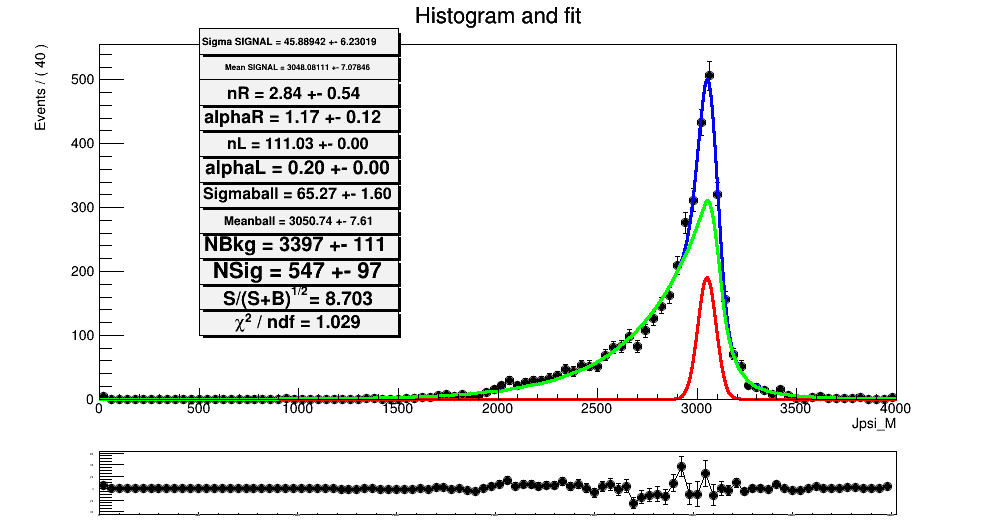
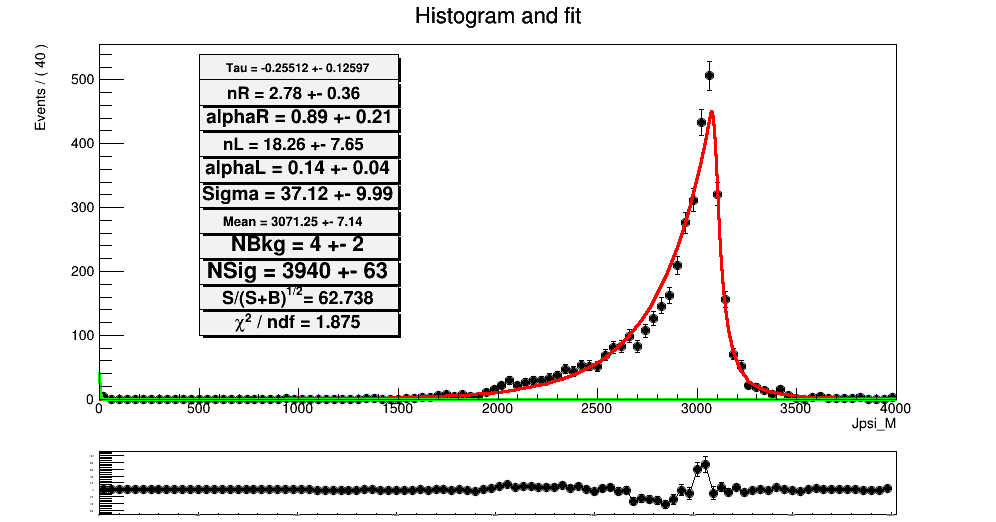
Add files via upload

diff --git a/FITTING/FIT_for_data_with_restrictions.py b/FITTING/FIT_for_data_with_restrictions.py
@@ -78,27 +78,29 @@ def ballFitdatarest(tree, cuts, mean_val, xmin = 4000, xmax = 7000):   # NOW TRE
     # define variables and pdfs
     Jpsi_M = RooRealVar("Jpsi_M","Jpsi_M", xmin, xmax)
     
-    mean  = RooRealVar("mean", "mean",  mean_val, mean_val-200, mean_val+200)
-    sigma = RooRealVar("sigma", "sigma", 80, 10, 150)
-    gauss = RooGaussian("gauss", "gauss", Jpsi_M, mean, sigma)
+    #mean  = RooRealVar("mean", "mean",  mean_val, mean_val-200, mean_val+200)
+    #sigma = RooRealVar("sigma", "sigma", 80, 10, 150)
+    #gauss = RooGaussian("gauss", "gauss", Jpsi_M, mean, sigma)
     
-    #tau = RooRealVar("tau", "tau", -0.005, -0.01, 0.)
-    #exp = RooExponential("exp", "exp", Jpsi_M, tau)
+    mean_ball=mean_val
 
-    mean_ball=2800
-    # I SET THE VALUES AND MAKE THEM CONSTANT
-    meanball  = RooRealVar("meanball","meanball",mean_ball,mean_ball-700,mean_ball+300)
-    sigmaball = RooRealVar("sigmaball", "sigmaball", 400, 200, 800)
-    alphaL    = RooRealVar("alphaL", "alphaL", 0.20, 0.1, 10.)
-    nL        = RooRealVar("nL", "nL", 111.03, 20, 150)
-    alphaR    = RooRealVar("alphaR", "alphaR", 1.17, 0.1, 10.)
-    nR        = RooRealVar("nR", "nR", 2.84, 0.01, 3)
+    meanball  = RooRealVar("meanball","meanball",mean_ball,mean_ball-300,mean_ball+300)
+    sigmaball = RooRealVar("sigmaball", "sigmaball", 80, 10, 100)
+    alphaL    = RooRealVar("alphaL", "alphaL", 0.14, 0.1, 10.)
+    nL        = RooRealVar("nL", "nL", 18.26, 5, 60)
+    alphaR    = RooRealVar("alphaR", "alphaR", 0.89, 0.1, 10.)
+    nR        = RooRealVar("nR", "nR", 2.78, 0.1, 25)
     ball=RooCrystalBall("ball","ball",Jpsi_M,meanball,sigmaball,alphaL,nL,alphaR,nR)
+    
+    
+    tau = RooRealVar("tau", "tau", -0.25512, -1, 0.)
+    exp = RooExponential("exp", "exp", Jpsi_M, tau)
     
     alphaL.setConstant(True)
     alphaR.setConstant(True)
     nL.setConstant(True)
     nR.setConstant(True)
+    tau.setConstant(True)
 
 
     # define coefficiencts
@@ -109,8 +111,8 @@ def ballFitdatarest(tree, cuts, mean_val, xmin = 4000, xmax = 7000):   # NOW TRE
     suma = RooArgList()
     coeff = RooArgList()
     
-    suma.add(gauss)
     suma.add(ball)
+    suma.add(exp)
     
     coeff.add(nsig)
     coeff.add(nbkg)
@@ -162,9 +164,9 @@ def ballFitdatarest(tree, cuts, mean_val, xmin = 4000, xmax = 7000):   # NOW TRE
 
     ###################
 
-    model.plotOn(massFrame, RooFit.Components("gauss"), RooFit.LineColor(2),
+    model.plotOn(massFrame, RooFit.Components("ball"), RooFit.LineColor(2),
                  RooFit.VisualizeError(fitResults, 1))
-    model.plotOn(massFrame, RooFit.Components("ball")  , RooFit.LineColor(3),
+    model.plotOn(massFrame, RooFit.Components("exp")  , RooFit.LineColor(3),
                  RooFit.VisualizeError(fitResults, 1))
     #model.paramOn(massFrame, Layout=(.55,.95,.93), Parameters=RooArgSet(nsig, nbkg, mean, sigma, tau))
 
@@ -195,14 +197,14 @@ def ballFitdatarest(tree, cuts, mean_val, xmin = 4000, xmax = 7000):   # NOW TRE
     t2 = ROOT.TPaveLabel(500.,40.,1500.,45., 'S/(S+B)^{1/2}' + '= {:.3f}'.format(signif.nominal_value))
     t3 = ROOT.TPaveLabel(500.,45.,1500.,50., 'NSig = {:.0f} +- {:.0f}'.format(nsig.getValV(), nsig.getError()))
     t4 = ROOT.TPaveLabel(500.,50.,1500.,55., 'NBkg = {:.0f} +- {:.0f}'.format(nbkg.getValV(), nbkg.getError()))
-    t5 = ROOT.TPaveLabel(500.,55.,1500.,60., 'Meanball = {:.2f} +- {:.2f}'.format(meanball.getValV(), meanball.getError()))
-    t6 = ROOT.TPaveLabel(500.,60.,1500.,65., 'Sigmaball = {:.2f} +- {:.2f}'.format(sigmaball.getValV(), sigmaball.getError()))
+    t5 = ROOT.TPaveLabel(500.,55.,1500.,60., 'Mean = {:.2f} +- {:.2f}'.format(meanball.getValV(), meanball.getError()))
+    t6 = ROOT.TPaveLabel(500.,60.,1500.,65., 'Sigma = {:.2f} +- {:.2f}'.format(sigmaball.getValV(), sigmaball.getError()))
     t8 = ROOT.TPaveLabel(500.,65.,1500.,70., 'alphaL = {:.2f} +- {:.2f}'.format(alphaL.getValV(), alphaL.getError()))
     t9 = ROOT.TPaveLabel(500.,70.,1500.,75., 'nL = {:.2f} +- {:.2f}'.format(nL.getValV(), nL.getError()))
     t10 = ROOT.TPaveLabel(500.,75.,1500.,80., 'alphaR = {:.2f} +- {:.2f}'.format(alphaR.getValV(), alphaR.getError()))
     t11 = ROOT.TPaveLabel(500.,80.,1500.,85., 'nR = {:.2f} +- {:.2f}'.format(nR.getValV(), nR.getError()))
-    t7 = ROOT.TPaveLabel(500.,85.,1500.,90., 'Mean SIGNAL = {:.5f} +- {:.5f}'.format(mean.getValV(), mean.getError()))
-    t12 = ROOT.TPaveLabel(500.,90.,1500.,95., 'Sigma SIGNAL = {:.5f} +- {:.5f}'.format(sigma.getValV(), sigma.getError()))
+    t7 = ROOT.TPaveLabel(500.,85.,1500.,90., 'Tau = {:.5f} +- {:.5f}'.format(tau.getValV(), tau.getError()))
+    #t12 = ROOT.TPaveLabel(500.,90.,1500.,95., 'Sigma SIGNAL = {:.5f} +- {:.5f}'.format(sigma.getValV(), sigma.getError()))
     
     massFrame.addObject(t2)
     massFrame.addObject(t3)
@@ -214,7 +216,7 @@ def ballFitdatarest(tree, cuts, mean_val, xmin = 4000, xmax = 7000):   # NOW TRE
     massFrame.addObject(t9)
     massFrame.addObject(t10)
     massFrame.addObject(t11)
-    massFrame.addObject(t12)
+    #massFrame.addObject(t12)
 
     massFrame.Draw()
     #Save the result

diff --git a/FITTING/FIT_for_data.py b/FITTING/FIT_for_data.py
@@ -78,23 +78,26 @@ def ballFitdata(tree, cuts, mean_val, xmin = 4000, xmax = 7000):   # NOW TREE IS
     # define variables and pdfs
     Jpsi_M = RooRealVar("Jpsi_M","Jpsi_M", xmin, xmax)
     
-    mean  = RooRealVar("mean", "mean",  mean_val, mean_val-200, mean_val+200)
-    sigma = RooRealVar("sigma", "sigma", 80, 10, 150)
-    gauss = RooGaussian("gauss", "gauss", Jpsi_M, mean, sigma)
+    #mean  = RooRealVar("mean", "mean",  mean_val, mean_val-200, mean_val+200)
+    #sigma = RooRealVar("sigma", "sigma", 80, 10, 150)
+    #gauss = RooGaussian("gauss", "gauss", Jpsi_M, mean, sigma)
     
-    #tau = RooRealVar("tau", "tau", -0.005, -0.01, 0.)
-    #exp = RooExponential("exp", "exp", Jpsi_M, tau)
+    
 
-    mean_ball=3100
+    mean_ball=mean_val
 
-    meanball  = RooRealVar("meanball","meanball",mean_ball,mean_ball-700,mean_ball+700)
-    sigmaball = RooRealVar("sigmaball", "sigmaball", 100, 50, 600)
+    meanball  = RooRealVar("meanball","meanball",mean_ball,mean_ball-300,mean_ball+300)
+    sigmaball = RooRealVar("sigmaball", "sigmaball", 80, 10, 100)
     alphaL    = RooRealVar("alphaL", "alphaL", 0.5, 0.1, 10.)
-    nL        = RooRealVar("nL", "nL", 10, 0.1, 30)
+    nL        = RooRealVar("nL", "nL", 20, 1, 40)
     alphaR    = RooRealVar("alphaR", "alphaR", 3, 0.1, 10.)
-    nR        = RooRealVar("nR", "nR", 0.1, 0.01, 1)
+    nR        = RooRealVar("nR", "nR", 10, 0.1, 25)
     ball=RooCrystalBall("ball","ball",Jpsi_M,meanball,sigmaball,alphaL,nL,alphaR,nR)
     
+    
+    tau = RooRealVar("tau", "tau", -0.1, -1, 0.)
+    exp = RooExponential("exp", "exp", Jpsi_M, tau)
+
     # define coefficiencts
     nsig = RooRealVar("nsig", "nsig", 1000, 0, 20000)
     nbkg = RooRealVar("nbkg", "nbkg", 1000, 0, 20000)
@@ -103,8 +106,8 @@ def ballFitdata(tree, cuts, mean_val, xmin = 4000, xmax = 7000):   # NOW TREE IS
     suma = RooArgList()
     coeff = RooArgList()
     
-    suma.add(gauss)
     suma.add(ball)
+    suma.add(exp)
     
     coeff.add(nsig)
     coeff.add(nbkg)
@@ -156,9 +159,9 @@ def ballFitdata(tree, cuts, mean_val, xmin = 4000, xmax = 7000):   # NOW TREE IS
 
     ###################
 
-    model.plotOn(massFrame, RooFit.Components("gauss"), RooFit.LineColor(2),
+    model.plotOn(massFrame, RooFit.Components("ball"), RooFit.LineColor(2),
                  RooFit.VisualizeError(fitResults, 1))
-    model.plotOn(massFrame, RooFit.Components("ball")  , RooFit.LineColor(3),
+    model.plotOn(massFrame, RooFit.Components("exp")  , RooFit.LineColor(3),
                  RooFit.VisualizeError(fitResults, 1))
     #model.paramOn(massFrame, Layout=(.55,.95,.93), Parameters=RooArgSet(nsig, nbkg, mean, sigma, tau))
 
@@ -189,14 +192,14 @@ def ballFitdata(tree, cuts, mean_val, xmin = 4000, xmax = 7000):   # NOW TREE IS
     t2 = ROOT.TPaveLabel(500.,40.,1500.,45., 'S/(S+B)^{1/2}' + '= {:.3f}'.format(signif.nominal_value))
     t3 = ROOT.TPaveLabel(500.,45.,1500.,50., 'NSig = {:.0f} +- {:.0f}'.format(nsig.getValV(), nsig.getError()))
     t4 = ROOT.TPaveLabel(500.,50.,1500.,55., 'NBkg = {:.0f} +- {:.0f}'.format(nbkg.getValV(), nbkg.getError()))
-    t5 = ROOT.TPaveLabel(500.,55.,1500.,60., 'Meanball = {:.2f} +- {:.2f}'.format(meanball.getValV(), meanball.getError()))
-    t6 = ROOT.TPaveLabel(500.,60.,1500.,65., 'Sigmaball = {:.2f} +- {:.2f}'.format(sigmaball.getValV(), sigmaball.getError()))
+    t5 = ROOT.TPaveLabel(500.,55.,1500.,60., 'Mean = {:.2f} +- {:.2f}'.format(meanball.getValV(), meanball.getError()))
+    t6 = ROOT.TPaveLabel(500.,60.,1500.,65., 'Sigma = {:.2f} +- {:.2f}'.format(sigmaball.getValV(), sigmaball.getError()))
     t8 = ROOT.TPaveLabel(500.,65.,1500.,70., 'alphaL = {:.2f} +- {:.2f}'.format(alphaL.getValV(), alphaL.getError()))
     t9 = ROOT.TPaveLabel(500.,70.,1500.,75., 'nL = {:.2f} +- {:.2f}'.format(nL.getValV(), nL.getError()))
     t10 = ROOT.TPaveLabel(500.,75.,1500.,80., 'alphaR = {:.2f} +- {:.2f}'.format(alphaR.getValV(), alphaR.getError()))
     t11 = ROOT.TPaveLabel(500.,80.,1500.,85., 'nR = {:.2f} +- {:.2f}'.format(nR.getValV(), nR.getError()))
-    t7 = ROOT.TPaveLabel(500.,85.,1500.,90., 'Mean SIGNAL = {:.5f} +- {:.5f}'.format(mean.getValV(), mean.getError()))
-    t12 = ROOT.TPaveLabel(500.,90.,1500.,95., 'Sigma SIGNAL = {:.5f} +- {:.5f}'.format(sigma.getValV(), sigma.getError()))
+    t7 = ROOT.TPaveLabel(500.,85.,1500.,90., 'Tau = {:.5f} +- {:.5f}'.format(tau.getValV(), tau.getError()))
+    #t12 = ROOT.TPaveLabel(500.,90.,1500.,95., 'Sigma SIGNAL = {:.5f} +- {:.5f}'.format(sigma.getValV(), sigma.getError()))
     
     massFrame.addObject(t2)
     massFrame.addObject(t3)
@@ -208,7 +211,7 @@ def ballFitdata(tree, cuts, mean_val, xmin = 4000, xmax = 7000):   # NOW TREE IS
     massFrame.addObject(t9)
     massFrame.addObject(t10)
     massFrame.addObject(t11)
-    massFrame.addObject(t12)
+    #massFrame.addObject(t12)
 
     massFrame.Draw()
     #Save the result

diff --git a/FITTING/FIT.py b/FITTING/FIT.py
@@ -78,22 +78,24 @@ def ballFit(tree, cuts, mean_val, xmin = 4000, xmax = 7000):
     # define variables and pdfs
     Jpsi_M = RooRealVar("Jpsi_M","Jpsi_M", xmin, xmax)
     
-    mean  = RooRealVar("mean", "mean",  mean_val, mean_val-200, mean_val+200)
-    sigma = RooRealVar("sigma", "sigma", 80, 10, 150)
-    gauss = RooGaussian("gauss", "gauss", Jpsi_M, mean, sigma)
+    #mean  = RooRealVar("mean", "mean",  mean_val, mean_val-200, mean_val+200)
+    #sigma = RooRealVar("sigma", "sigma", 80, 10, 150)
+    #gauss = RooGaussian("gauss", "gauss", Jpsi_M, mean, sigma)
     
-    #tau = RooRealVar("tau", "tau", -0.005, -0.01, 0.)
-    #exp = RooExponential("exp", "exp", Jpsi_M, tau)
 
-    mean_ball=3100
+    mean_ball=mean_val
 
     meanball  = RooRealVar("meanball","meanball",mean_ball,mean_ball-300,mean_ball+300)
-    sigmaball = RooRealVar("sigmaball", "sigmaball", 100, 50, 400)
+    sigmaball = RooRealVar("sigmaball", "sigmaball", 80, 10, 100)
     alphaL    = RooRealVar("alphaL", "alphaL", 0.5, 0.1, 10.)
-    nL        = RooRealVar("nL", "nL", 60, 20, 150)
+    nL        = RooRealVar("nL", "nL", 40, 5, 60)
     alphaR    = RooRealVar("alphaR", "alphaR", 3, 0.1, 10.)
     nR        = RooRealVar("nR", "nR", 10, 0.1, 25)
     ball=RooCrystalBall("ball","ball",Jpsi_M,meanball,sigmaball,alphaL,nL,alphaR,nR)
+    
+    
+    tau = RooRealVar("tau", "tau", -0.1, -1, 0.)
+    exp = RooExponential("exp", "exp", Jpsi_M, tau)
     
     # define coefficiencts
     nsig = RooRealVar("nsig", "nsig", 1000, 0, 20000)
@@ -103,8 +105,8 @@ def ballFit(tree, cuts, mean_val, xmin = 4000, xmax = 7000):
     suma = RooArgList()
     coeff = RooArgList()
     
-    suma.add(gauss)
     suma.add(ball)
+    suma.add(exp)
     
     coeff.add(nsig)
     coeff.add(nbkg)
@@ -145,9 +147,9 @@ def ballFit(tree, cuts, mean_val, xmin = 4000, xmax = 7000):
 
     ###################
 
-    model.plotOn(massFrame, RooFit.Components("gauss"), RooFit.LineColor(2),
+    model.plotOn(massFrame, RooFit.Components("ball"), RooFit.LineColor(2),
                  RooFit.VisualizeError(fitResults, 1))
-    model.plotOn(massFrame, RooFit.Components("ball")  , RooFit.LineColor(3),
+    model.plotOn(massFrame, RooFit.Components("exp")  , RooFit.LineColor(3),
                  RooFit.VisualizeError(fitResults, 1))
     #model.paramOn(massFrame, Layout=(.55,.95,.93), Parameters=RooArgSet(nsig, nbkg, mean, sigma, tau))
 
@@ -178,14 +180,14 @@ def ballFit(tree, cuts, mean_val, xmin = 4000, xmax = 7000):
     t2 = ROOT.TPaveLabel(500.,140.,1500.,180., 'S/(S+B)^{1/2}' + '= {:.3f}'.format(signif.nominal_value))
     t3 = ROOT.TPaveLabel(500.,180.,1500.,220., 'NSig = {:.0f} +- {:.0f}'.format(nsig.getValV(), nsig.getError()))
     t4 = ROOT.TPaveLabel(500.,220.,1500.,260., 'NBkg = {:.0f} +- {:.0f}'.format(nbkg.getValV(), nbkg.getError()))
-    t5 = ROOT.TPaveLabel(500.,260.,1500.,300., 'Meanball = {:.2f} +- {:.2f}'.format(meanball.getValV(), meanball.getError()))
-    t6 = ROOT.TPaveLabel(500.,300.,1500.,340., 'Sigmaball = {:.2f} +- {:.2f}'.format(sigmaball.getValV(), sigmaball.getError()))
+    t5 = ROOT.TPaveLabel(500.,260.,1500.,300., 'Mean = {:.2f} +- {:.2f}'.format(meanball.getValV(), meanball.getError()))
+    t6 = ROOT.TPaveLabel(500.,300.,1500.,340., 'Sigma = {:.2f} +- {:.2f}'.format(sigmaball.getValV(), sigmaball.getError()))
     t8 = ROOT.TPaveLabel(500.,340.,1500.,380., 'alphaL = {:.2f} +- {:.2f}'.format(alphaL.getValV(), alphaL.getError()))
     t9 = ROOT.TPaveLabel(500.,380.,1500.,420., 'nL = {:.2f} +- {:.2f}'.format(nL.getValV(), nL.getError()))
     t10 = ROOT.TPaveLabel(500.,420.,1500.,460., 'alphaR = {:.2f} +- {:.2f}'.format(alphaR.getValV(), alphaR.getError()))
     t11 = ROOT.TPaveLabel(500.,460.,1500.,500., 'nR = {:.2f} +- {:.2f}'.format(nR.getValV(), nR.getError()))
-    t7 = ROOT.TPaveLabel(500.,500.,1500.,540., 'Mean SIGNAL = {:.5f} +- {:.5f}'.format(mean.getValV(), mean.getError()))
-    t12 = ROOT.TPaveLabel(500.,540.,1500.,580., 'Sigma SIGNAL = {:.5f} +- {:.5f}'.format(sigma.getValV(), sigma.getError()))
+    t7 = ROOT.TPaveLabel(500.,500.,1500.,540., 'Tau = {:.5f} +- {:.5f}'.format(tau.getValV(), tau.getError()))
+    #t12 = ROOT.TPaveLabel(500.,540.,1500.,580., 'Sigma SIGNAL = {:.5f} +- {:.5f}'.format(sigma.getValV(), sigma.getError()))
     
     massFrame.addObject(t2)
     massFrame.addObject(t3)
@@ -197,7 +199,7 @@ def ballFit(tree, cuts, mean_val, xmin = 4000, xmax = 7000):
     massFrame.addObject(t9)
     massFrame.addObject(t10)
     massFrame.addObject(t11)
-    massFrame.addObject(t12)
+    #massFrame.addObject(t12)
 
     massFrame.Draw()
     #Save the result
